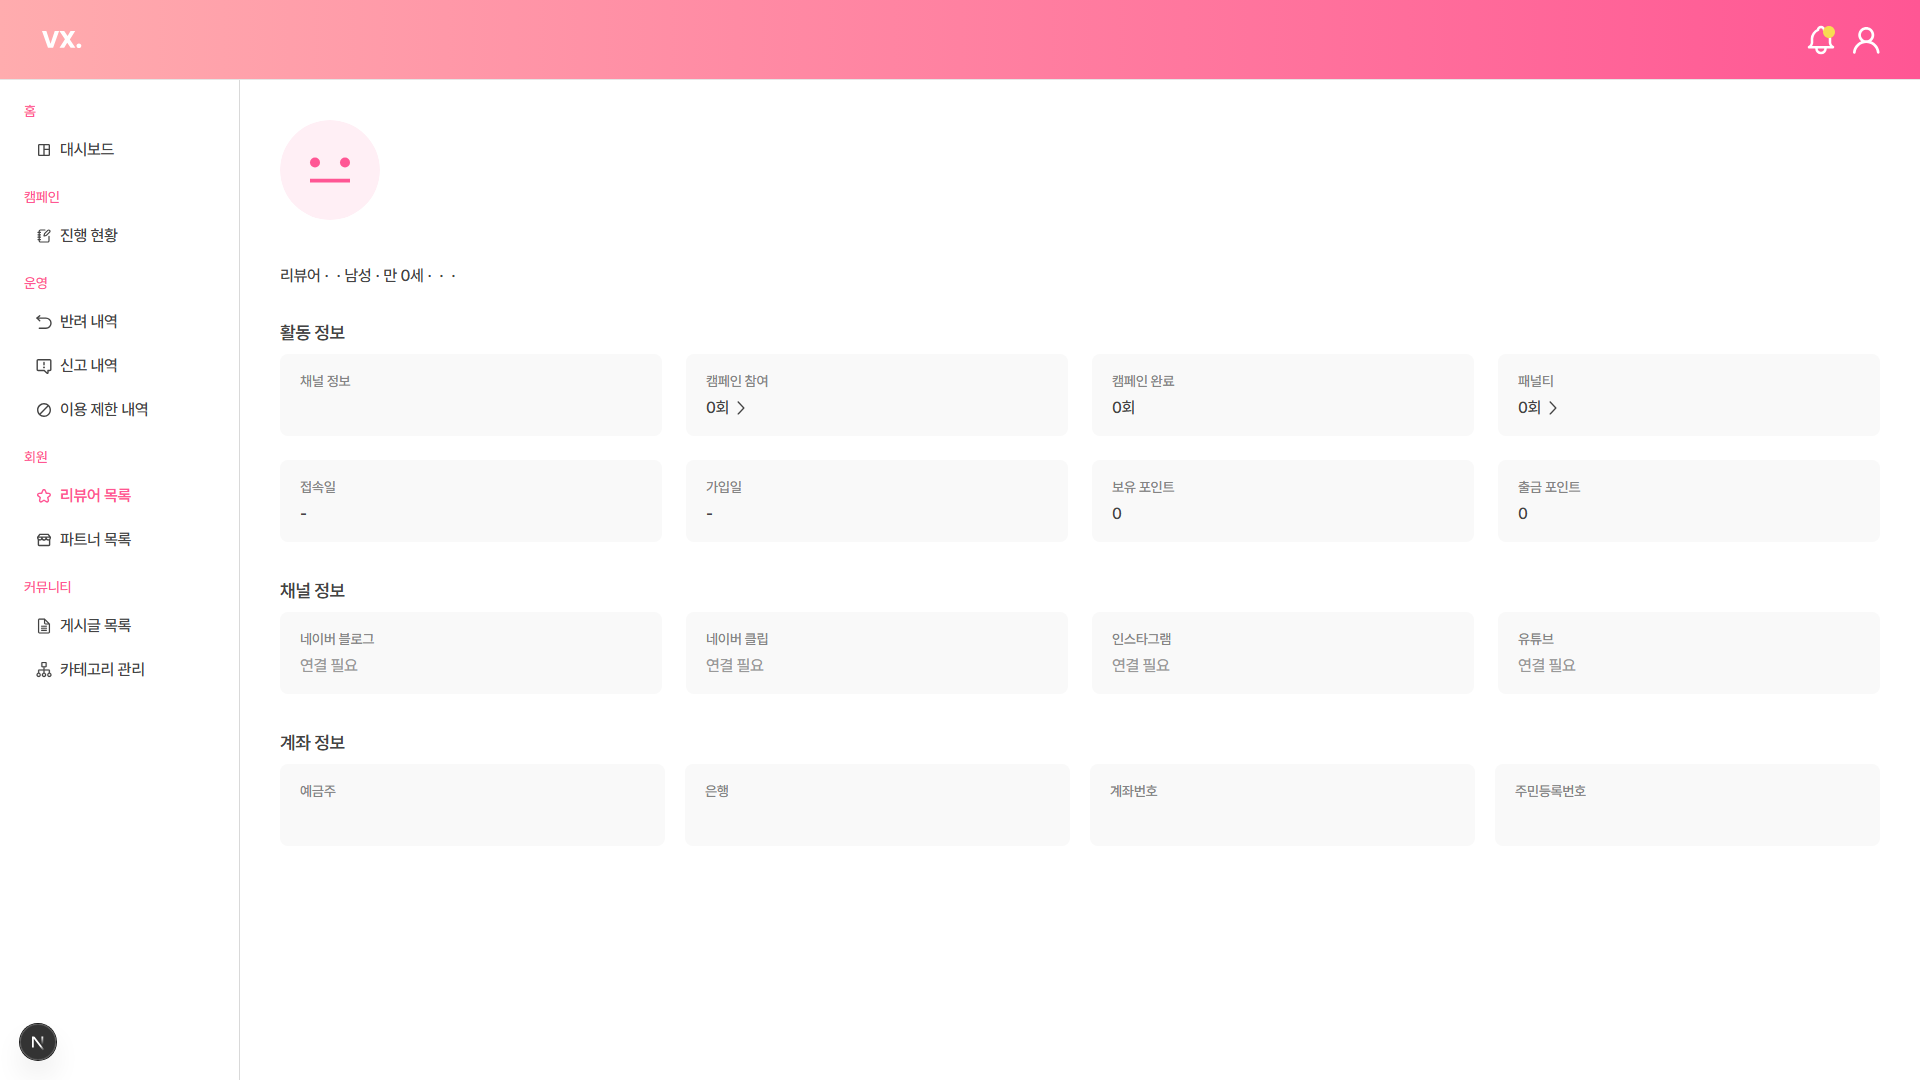
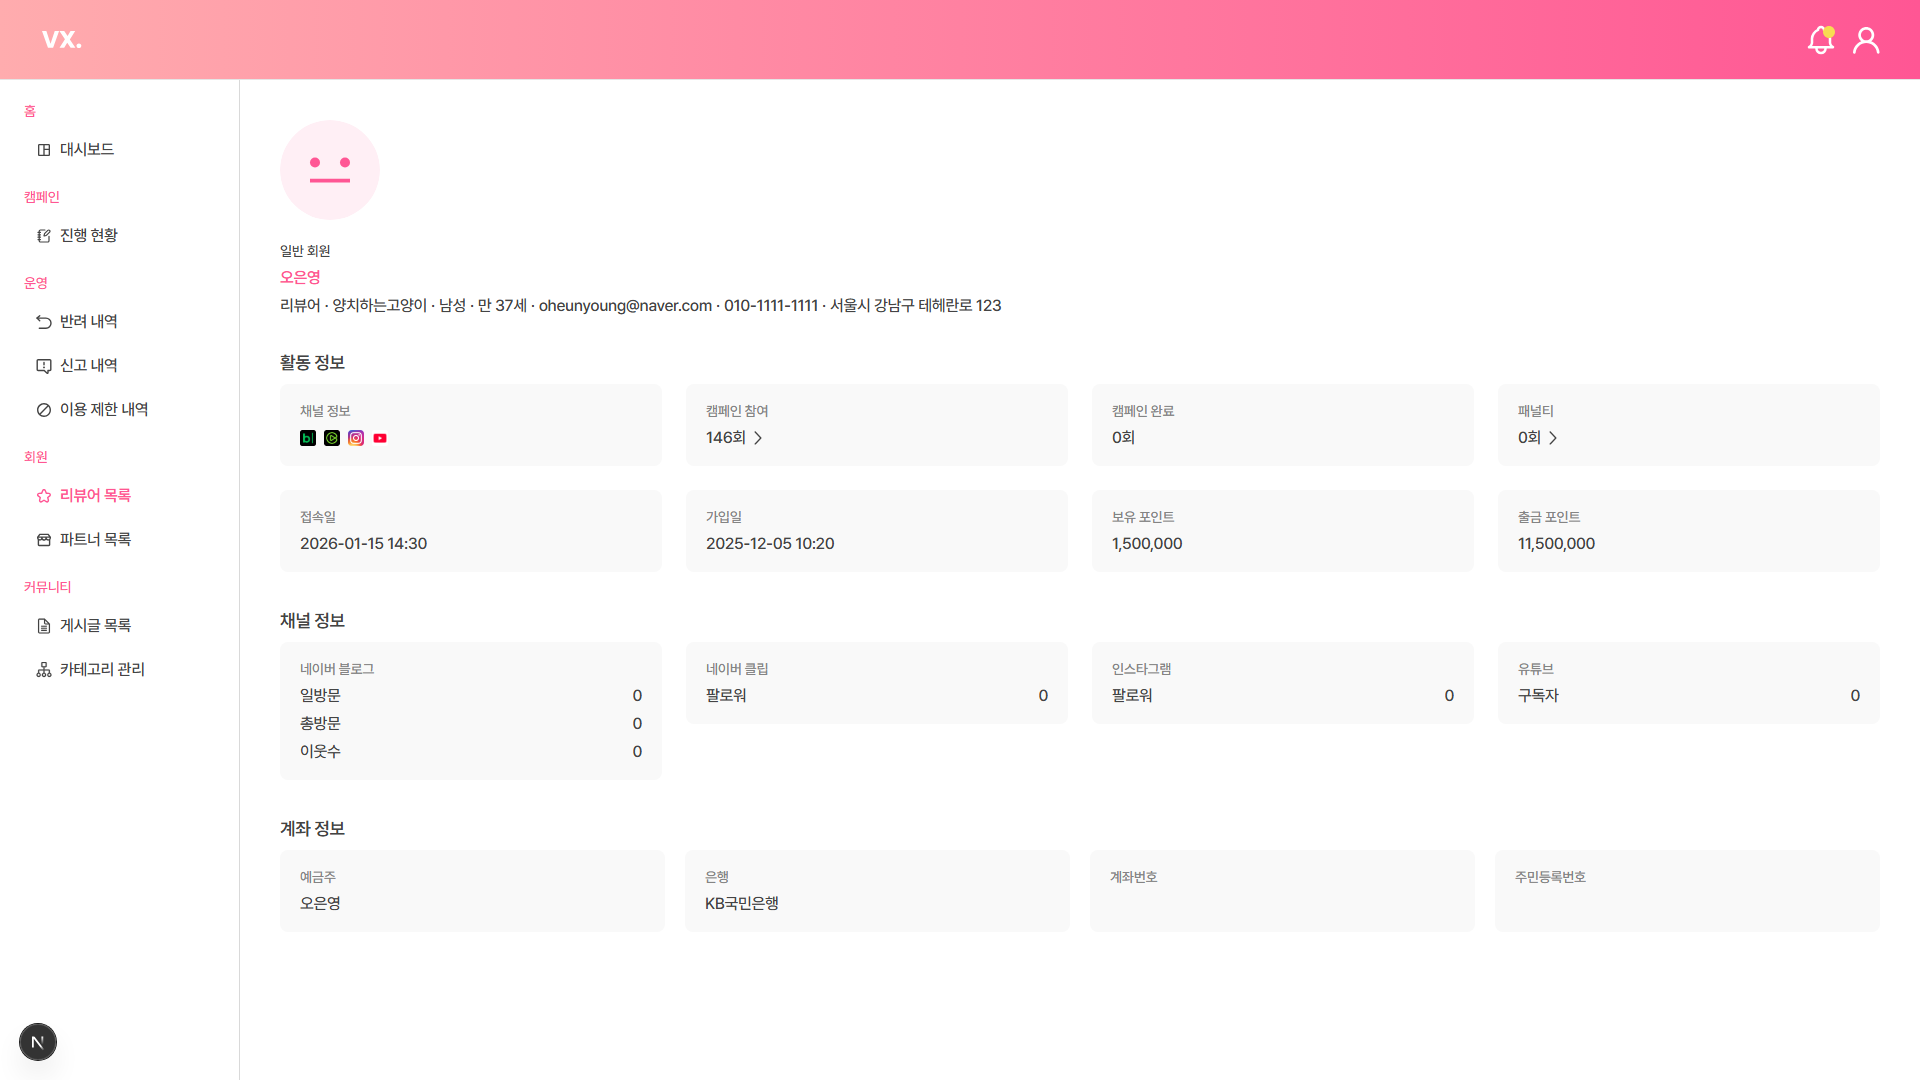
fix: 관리자 리뷰어/파트너 상세 페이지 API 응답 언래핑 버그 수정 및 스크린샷 업데이트

diff --git a/src/lib/api/admin.ts b/src/lib/api/admin.ts
@@ -111,7 +111,9 @@ export const fetchAdminReviewers = (): Promise<AdminReviewerApiItem[]> =>
 
 /** @deprecated 기존 mock 호환 — getReviewerDetail 사용 */
 export const fetchAdminReviewerDetail = (id: number): Promise<AdminReviewerApiItem> =>
-  apiClient.get<AdminReviewerApiItem>(`/admin/reviewer/${id}`).then((res) => res.data);
+  apiClient
+    .get<{ result: string; data: AdminReviewerApiItem }>(`/admin/reviewer/${id}`)
+    .then((res) => res.data.data);
 
 /**
  * GA-06: 리뷰어 목록 조회
@@ -178,7 +180,9 @@ export const fetchAdminPartners = (): Promise<AdminPartnerApiItem[]> =>
 
 /** @deprecated 기존 mock 호환 — getPartnerDetail 사용 */
 export const fetchAdminPartnerDetail = (id: number): Promise<AdminPartnerApiItem> =>
-  apiClient.get<AdminPartnerApiItem>(`/admin/partner/${id}`).then((res) => res.data);
+  apiClient
+    .get<{ result: string; data: AdminPartnerApiItem }>(`/admin/partner/${id}`)
+    .then((res) => res.data.data);
 
 /**
  * GA-08: 파트너 목록 조회
